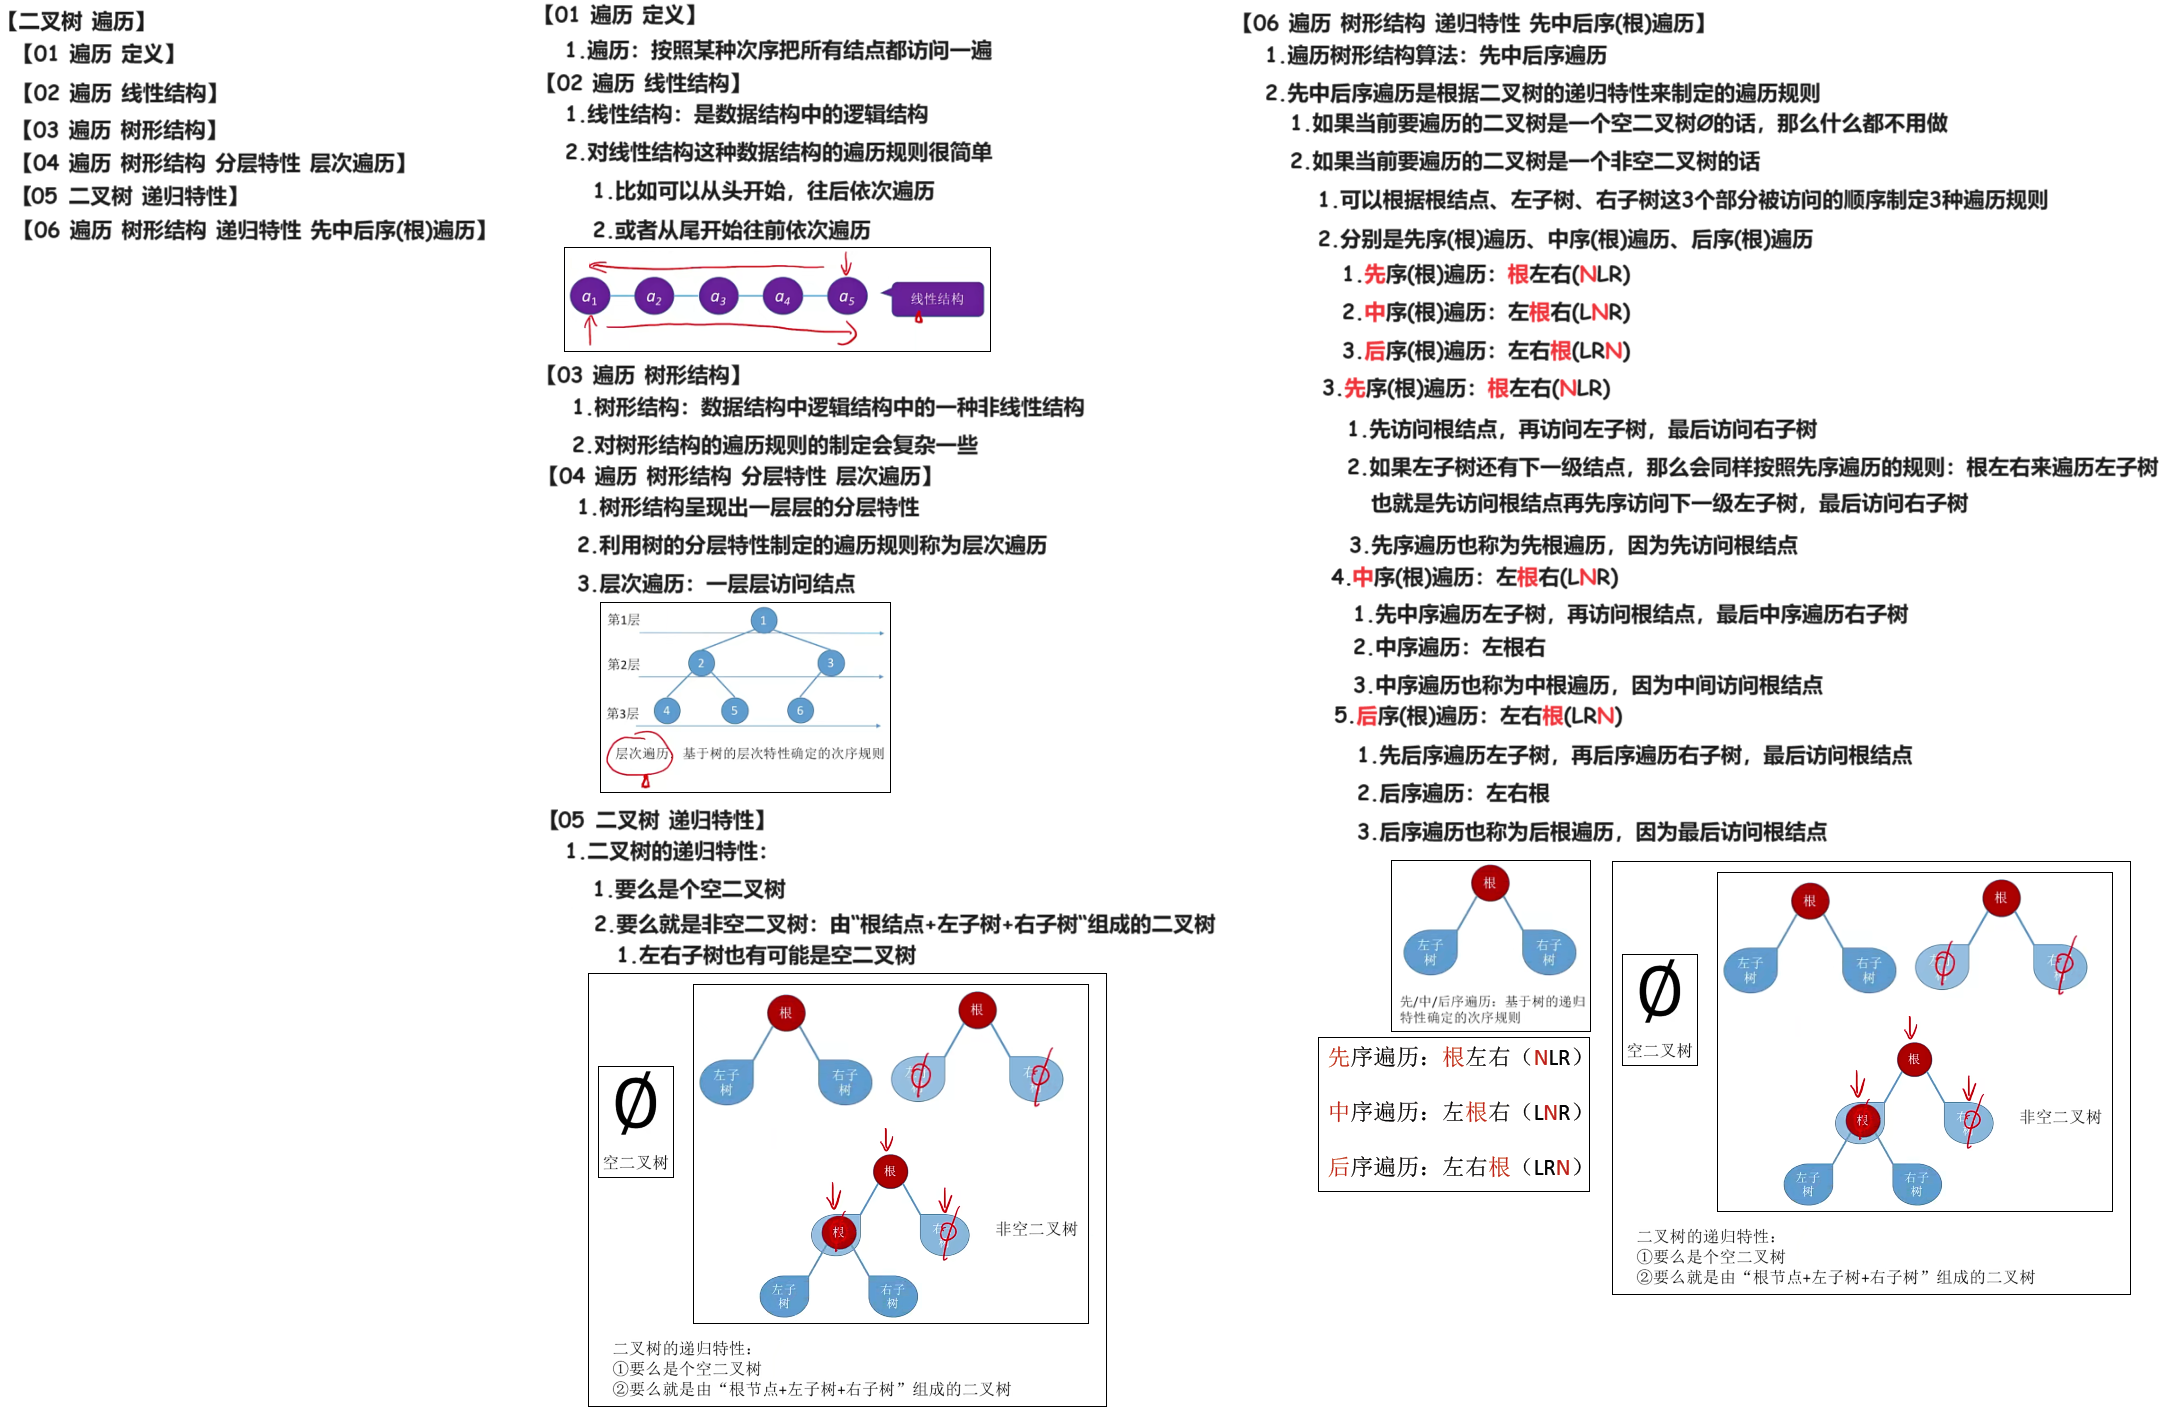
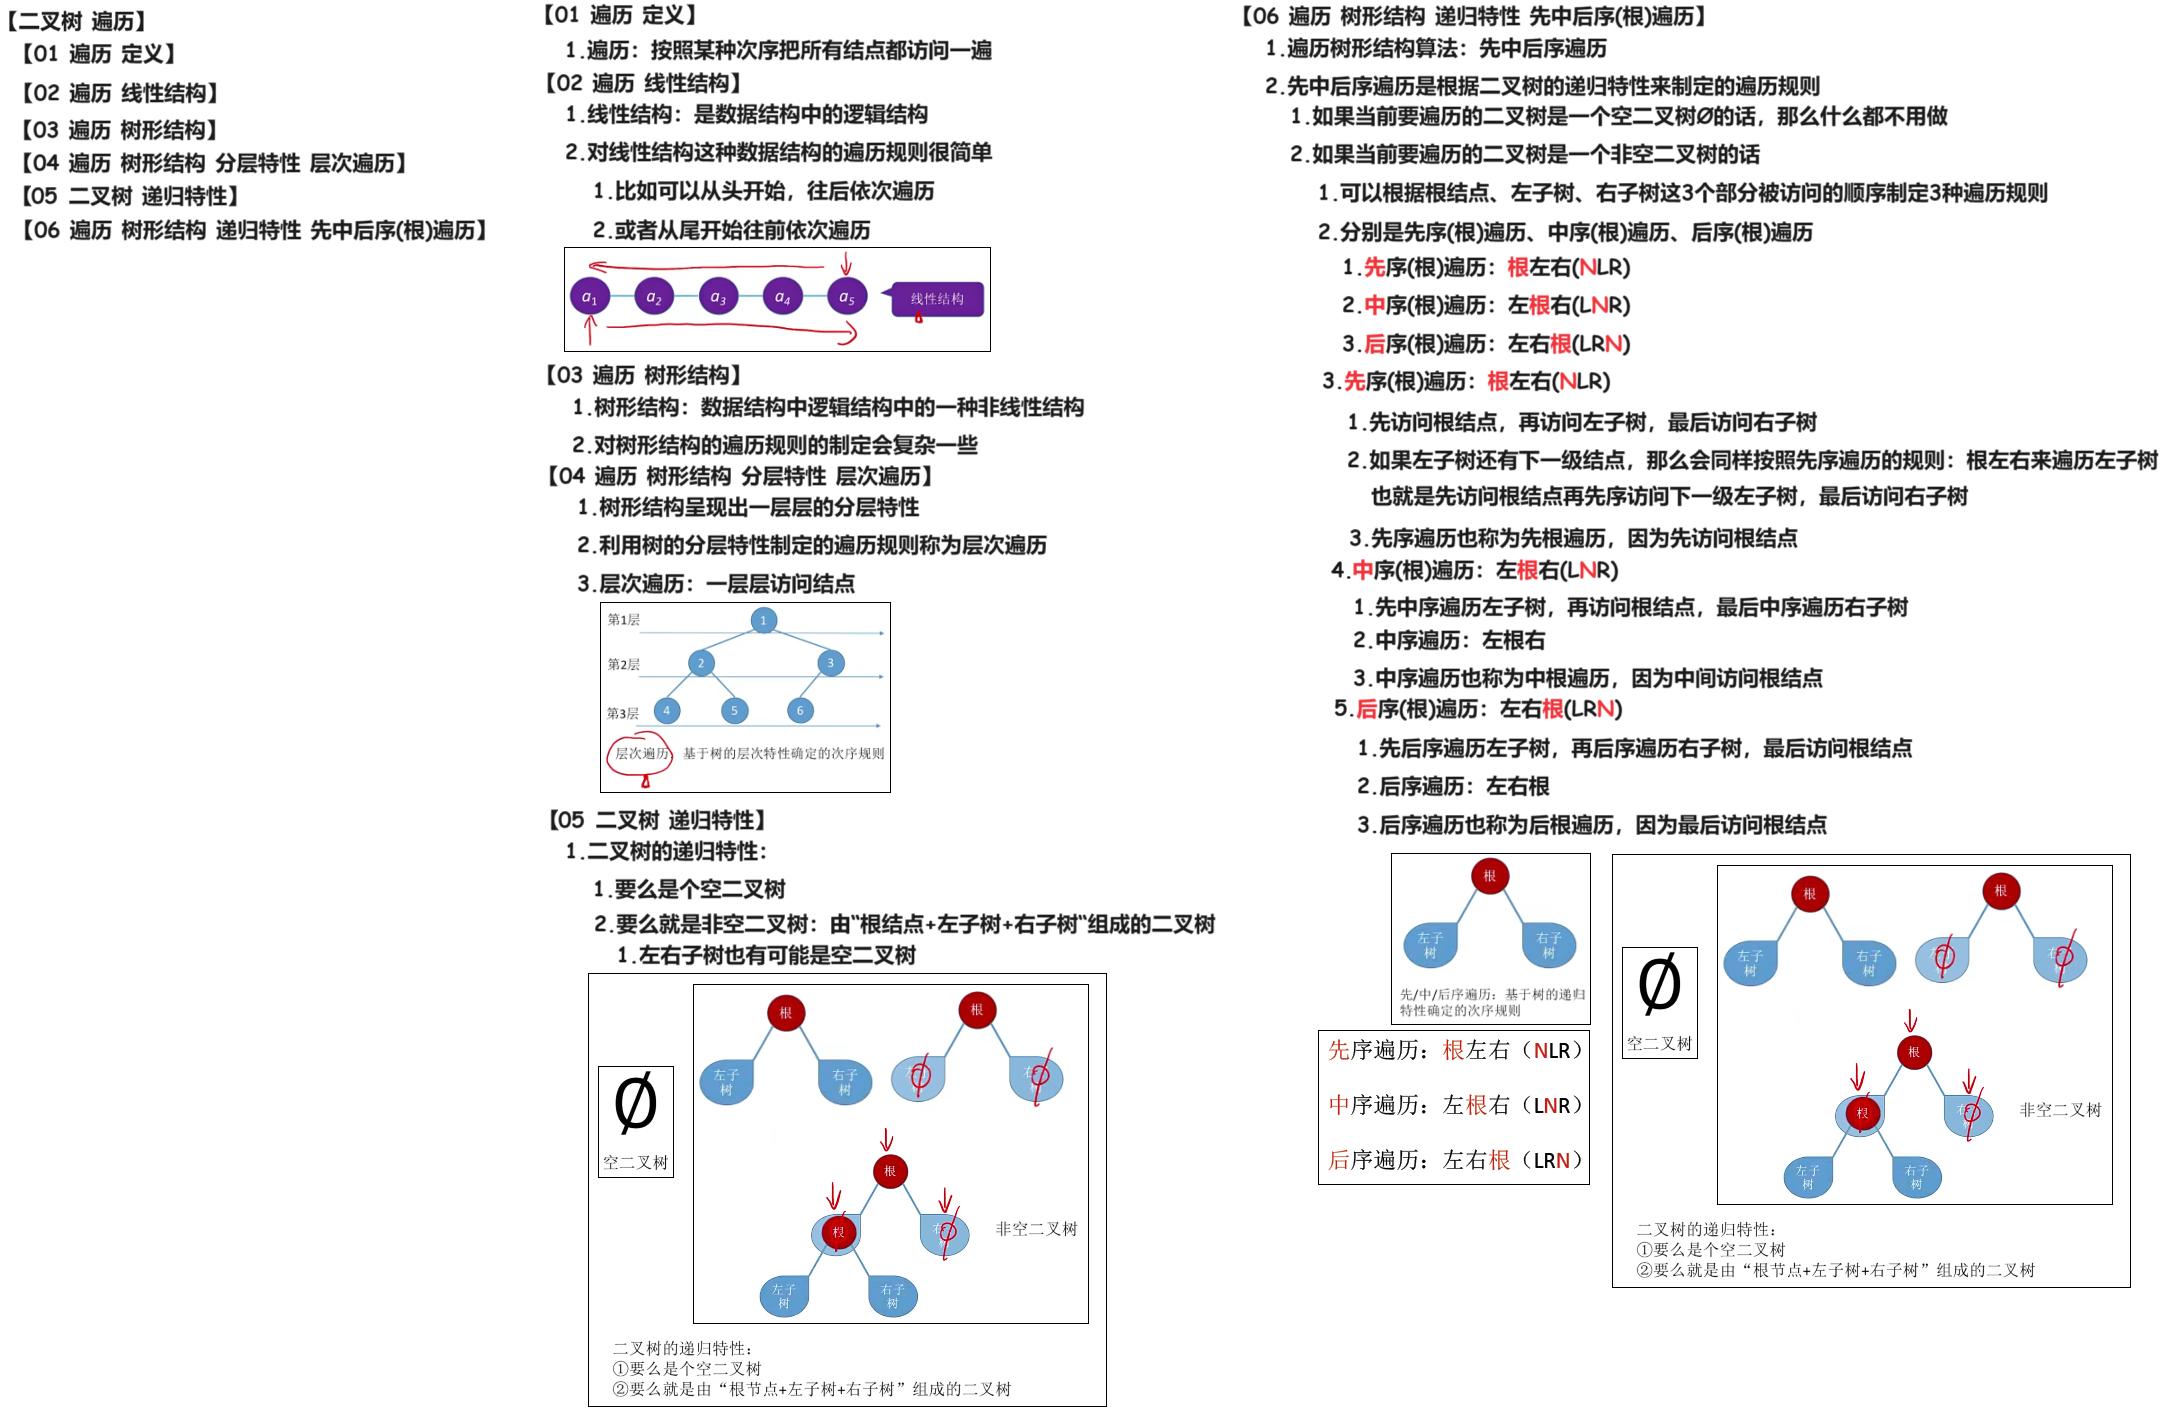
240313

Changed region(s): [[0.5552, 0.0, 1.0, 0.9302]]

diff --git a/02 DS/01 题集/02 专题/06 二叉树 先中后序遍历 240314/01 知识点/01 王道基础/02 Doc.md b/02 DS/01 题集/02 专题/06 二叉树 先中后序遍历 240314/01 知识点/01 王道基础/02 Doc.md
@@ -8,4 +8,4 @@
 
 # 02 二叉树 遍历
 
-<img src="https://cvp.oss-cn-shanghai.aliyuncs.com/picgo/202403141059789.png" alt="image-20240314105900532" style="zoom:33%;" />
+<img src="https://cvp.oss-cn-shanghai.aliyuncs.com/picgo/202403141108029.png" alt="image-20240314110846805" style="zoom:50%;" />

diff --git a/02 DS/01 题集/02 专题/06 二叉树 先中后序遍历 240314/02 题集/01 王道基础/01 先中后序遍历 240314/02 Doc.md b/02 DS/01 题集/02 专题/06 二叉树 先中后序遍历 240314/02 题集/01 王道基础/01 先中后序遍历 240314/02 Doc.md
@@ -1,0 +1,6 @@
+# 01 题目
+
+
+
+# 02 答案
+
